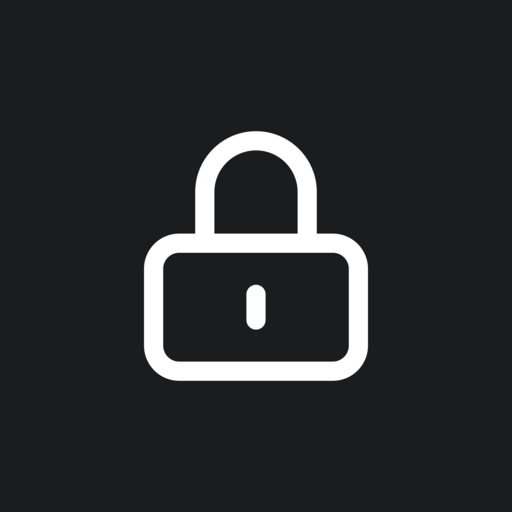
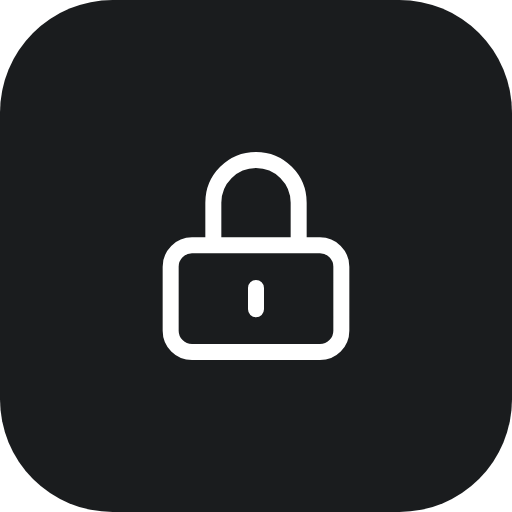
improve PWA support

diff --git a/scripts/generate-icons.ts b/scripts/generate-icons.ts
@@ -1,0 +1,86 @@
+/**
+ * Regenerates the favicon / PWA / Apple icons in public/ from one vector source.
+ *
+ * Run with: npx tsx scripts/generate-icons.ts
+ * Chromium comes from the Playwright install the e2e suite already needs (it rasterizes SVG far
+ * better than ImageMagick's built-in renderer); favicon.ico packing needs `magick` on PATH.
+ *
+ * The maskable variants are full-bleed on purpose: Android crops them to its own shape, so an
+ * icon carrying its own rounded corners ends up as a small square floating on a white plate.
+ */
+import { execFile } from 'node:child_process'
+import { mkdtemp, rm, writeFile } from 'node:fs/promises'
+import { tmpdir } from 'node:os'
+import { dirname, join } from 'node:path'
+import { promisify } from 'node:util'
+import { fileURLToPath } from 'node:url'
+import { chromium } from 'playwright'
+
+const run = promisify(execFile)
+const PUBLIC_DIR = join(dirname(fileURLToPath(import.meta.url)), '..', 'public')
+
+const BG = '#1a1c1e'
+const FG = '#ffffff'
+const LOCK =
+  'M12 15v2m-6 4h12a2 2 0 002-2v-6a2 2 0 00-2-2H6a2 2 0 00-2 2v6a2 2 0 002 2zm10-10V7a4 4 0 00-8 0v4h8z'
+
+/**
+ * @param radius corner radius in canvas units (0-50); 0 = full bleed
+ * @param glyph  lock width in canvas units, i.e. percent of the icon
+ */
+function page({ radius, glyph }: { radius: number; glyph: number }) {
+  const scale = glyph / 24
+  const offset = 50 - glyph / 2
+  return `<!doctype html>
+<style>html,body{margin:0;padding:0}svg{display:block;width:100vw;height:100vh}</style>
+<svg xmlns="http://www.w3.org/2000/svg" viewBox="0 0 100 100">
+  <rect x="0" y="0" width="100" height="100" rx="${radius}" fill="${BG}" />
+  <g transform="translate(${offset} ${offset}) scale(${scale})">
+    <path fill="none" stroke="${FG}" stroke-linecap="round" stroke-linejoin="round" stroke-width="1.5" d="${LOCK}" />
+  </g>
+</svg>`
+}
+
+// Rounded square where the icon is shown as-is (browser tabs, desktop installs); full bleed
+// wherever the platform applies its own mask (Android adaptive, iOS squircle).
+const ROUNDED = page({ radius: 22, glyph: 50 })
+const MASKABLE = page({ radius: 0, glyph: 44 })
+const APPLE = page({ radius: 0, glyph: 52 })
+
+const icons = [
+  { file: 'pwa-192x192.png', size: 192, html: ROUNDED },
+  { file: 'pwa-512x512.png', size: 512, html: ROUNDED },
+  { file: 'pwa-maskable-192x192.png', size: 192, html: MASKABLE },
+  { file: 'pwa-maskable-512x512.png', size: 512, html: MASKABLE },
+  { file: 'apple-touch-icon.png', size: 180, html: APPLE },
+]
+const FAVICON_SIZES = [16, 32, 48]
+
+const browser = await chromium.launch()
+const scratch = await mkdtemp(join(tmpdir(), 'librelock-icons-'))
+
+async function shot(html: string, size: number, out: string) {
+  const tab = await browser.newPage({ viewport: { width: size, height: size } })
+  await tab.setContent(html)
+  await tab.screenshot({ path: out, omitBackground: true })
+  await tab.close()
+}
+
+try {
+  for (const { file, size, html } of icons) {
+    await shot(html, size, join(PUBLIC_DIR, file))
+    console.log(`wrote public/${file} (${size}x${size})`)
+  }
+
+  const frames: string[] = []
+  for (const size of FAVICON_SIZES) {
+    const out = join(scratch, `favicon-${size}.png`)
+    await shot(ROUNDED, size, out)
+    frames.push(out)
+  }
+  await run('magick', [...frames, join(PUBLIC_DIR, 'favicon.ico')])
+  console.log(`wrote public/favicon.ico (${FAVICON_SIZES.join(', ')})`)
+} finally {
+  await browser.close()
+  await rm(scratch, { recursive: true, force: true })
+}

diff --git a/src/views/organization/OrgAccessCard.vue b/src/views/organization/OrgAccessCard.vue
@@ -79,9 +79,9 @@ async function toggleAutoGrant() {
             <p class="text-sm font-semibold text-gray-900 dark:text-gray-100">Public sign-up</p>
           </div>
           <p class="mt-1 text-xs text-gray-400">
-            Off means the instance is invite-only (recommended, default). New users will need a
-            single-use link generated in the Invites tab. When this setting is on, anyone who can
-            reach this instancecan create an account.
+            Off means the instance is invite-only (recommended, default).
+            New users will need a single-use link generated in the Invites tab.
+            When this setting is on, anyone who can reach this instance can create an account.
           </p>
         </div>
 
@@ -100,9 +100,8 @@ async function toggleAutoGrant() {
             Auto-grant shared vault
           </p>
           <p class="mt-1 text-xs text-gray-400">
-            New members receive shared-vault access automatically. Because the vault is end-to-end
-            encrypted, access is applied the next time an admin who holds the shared key opens the
-            Users tab, not instantly at sign-up.
+            New members receive shared-vault access automatically.
+            Because the vault is end-to-end encrypted, access is applied the next time an admin who holds the shared key opens the Users tab, not instantly at sign-up.
           </p>
         </div>
 
@@ -130,9 +129,8 @@ async function toggleAutoGrant() {
           </h3>
           <p class="mt-2 text-sm text-gray-600 dark:text-gray-300">
             Anyone who can reach this instance will be able to create an account without an invite.
-            On a publicly reachable server this can let strangers join your organization. Only
-            enable this if the instance is on a trusted, restricted network or you intend open
-            enrollment.
+            On a publicly reachable server this can let strangers join your organization.
+            Only enable this if the instance is on a trusted, restricted network or you intend open enrollment.
           </p>
           <p class="mt-2 text-sm text-gray-600 dark:text-gray-300">
             You can switch back to invite-only at any time.

diff --git a/src/composables/useAppViewport.ts b/src/composables/useAppViewport.ts
@@ -1,0 +1,42 @@
+import { onBeforeUnmount, onMounted } from 'vue'
+
+/**
+ * Keeps the app shell locked to the *visual* viewport.
+ *
+ * In an installed PWA the layout viewport (what `100dvh` measures) does not shrink when the
+ * on-screen keyboard opens, so a flex-column shell ends up with its bottom nav underneath the
+ * keyboard and — on iOS, which scrolls the layout viewport to reveal the focused input — its
+ * topbar pushed off screen. Mirroring `visualViewport.height`/`offsetTop` into CSS variables
+ * lets the shell resize and re-pin itself instead.
+ */
+export function useAppViewport() {
+  const vv = typeof window !== 'undefined' ? window.visualViewport : null
+
+  function sync() {
+    const root = document.documentElement
+    const height = vv?.height ?? window.innerHeight
+    // Rounded down: a fractional height leaves a hairline of page scrollable on some browsers
+    root.style.setProperty('--app-height', `${Math.floor(height)}px`)
+    root.style.setProperty('--app-offset-top', `${Math.round(vv?.offsetTop ?? 0)}px`)
+  }
+
+  onMounted(() => {
+    sync()
+    if (vv) {
+      vv.addEventListener('resize', sync)
+      // iOS pans the visual viewport while the keyboard is up; offsetTop only changes on scroll
+      vv.addEventListener('scroll', sync)
+    }
+    window.addEventListener('resize', sync)
+    window.addEventListener('orientationchange', sync)
+  })
+
+  onBeforeUnmount(() => {
+    if (vv) {
+      vv.removeEventListener('resize', sync)
+      vv.removeEventListener('scroll', sync)
+    }
+    window.removeEventListener('resize', sync)
+    window.removeEventListener('orientationchange', sync)
+  })
+}

diff --git a/src/layouts/AppLayout.vue b/src/layouts/AppLayout.vue
@@ -4,10 +4,12 @@ import { useRoute, useRouter } from 'vue-router'
 import AppBottomNav from '@/components/AppBottomNav.vue'
 import AppSidebar from '@/components/AppSidebar.vue'
 import AppTopbar from '@/components/AppTopbar.vue'
+import { useAppViewport } from '@/composables/useAppViewport'
 import { useThemeStore } from '@/stores/theme'
 import { useVaultStore } from '@/stores/vault'
 
 useThemeStore()
+useAppViewport()
 
 // Routes with their own searchable entry list (via VaultEntrySidebar) filter in place; entry forms are left alone so typing a search doesn't blow away an in-progress edit
 // Everywhere else (security, settings, organization, ...) has no results to show, so send the user to the vault view where they can actually see matches
@@ -41,7 +43,12 @@ watch(
 </script>
 
 <template>
-  <div class="flex h-dvh bg-gray-50 dark:bg-gray-950">
+  <!-- Pinned to the visual viewport (see useAppViewport) so the topbar and bottom nav stay put
+       in an installed PWA, keyboard open or not; h-dvh is the pre-hydration fallback -->
+  <div
+    class="fixed inset-x-0 flex h-dvh overflow-hidden bg-gray-50 dark:bg-gray-950 pl-[env(safe-area-inset-left)] pr-[env(safe-area-inset-right)]"
+    :style="{ top: 'var(--app-offset-top, 0px)', height: 'var(--app-height, 100dvh)' }"
+  >
     <AppSidebar />
     <div class="flex min-w-0 flex-1 flex-col">
       <AppTopbar />

diff --git a/vite.config.ts b/vite.config.ts
@@ -41,11 +41,18 @@ export default defineConfig({
         description: 'End-to-end encrypted password manager',
         start_url: '/',
         display: 'standalone',
-        background_color: '#ffffff',
-        theme_color: '#1a1c1e',
+        // Matches the dark shell theme-init.js defaults to, so the splash doesn't flash white
+        background_color: '#030712',
+        theme_color: '#030712',
         icons: [
-          { src: '/pwa-192x192.png', sizes: '192x192', type: 'image/png' },
-          { src: '/pwa-512x512.png', sizes: '512x512', type: 'image/png' },
+          { src: '/pwa-192x192.png', sizes: '192x192', type: 'image/png', purpose: 'any' },
+          { src: '/pwa-512x512.png', sizes: '512x512', type: 'image/png', purpose: 'any' },
+          {
+            src: '/pwa-maskable-192x192.png',
+            sizes: '192x192',
+            type: 'image/png',
+            purpose: 'maskable',
+          },
           {
             src: '/pwa-maskable-512x512.png',
             sizes: '512x512',

diff --git a/index.html b/index.html
@@ -4,7 +4,12 @@
     <meta charset="UTF-8" />
     <link rel="icon" href="/favicon.ico" />
     <link rel="apple-touch-icon" href="/apple-touch-icon.png" />
-    <meta name="viewport" content="width=device-width, initial-scale=1.0, viewport-fit=cover" />
+    <!-- interactive-widget: let the soft keyboard resize the layout viewport (Chrome/Android) so
+         the bottom nav rides above it instead of sitting under it -->
+    <meta
+      name="viewport"
+      content="width=device-width, initial-scale=1.0, viewport-fit=cover, interactive-widget=resizes-content"
+    />
     <meta name="theme-color" content="#030712" />
     <meta name="mobile-web-app-capable" content="yes" />
     <meta name="apple-mobile-web-app-status-bar-style" content="default" />

diff --git a/src/components/AppTopbar.vue b/src/components/AppTopbar.vue
@@ -44,7 +44,7 @@ onBeforeUnmount(() => window.removeEventListener('keydown', handleKeydown))
 
 <template>
   <header
-    class="flex h-14 shrink-0 items-center gap-3 border-b border-gray-200 dark:border-gray-700 bg-white dark:bg-gray-900 px-3 sm:gap-4 sm:px-4"
+    class="flex h-[calc(3.5rem+env(safe-area-inset-top))] shrink-0 items-center gap-3 border-b border-gray-200 dark:border-gray-700 bg-white dark:bg-gray-900 px-3 pt-[env(safe-area-inset-top)] sm:gap-4 sm:px-4"
   >
     <!-- The sidebar (and its logo) is hidden on mobile, so show the brand here -->
     <RouterLink to="/" class="shrink-0 md:hidden" aria-label="Home">

diff --git a/src/assets/main.css b/src/assets/main.css
@@ -1,6 +1,15 @@
 @import 'tailwindcss';
 
-@variant dark (&:where(.dark, .dark *));
+@custom-variant dark (&:where(.dark, .dark *));
+
+/* The app shell owns all scrolling (each view scrolls internally). Locking the document keeps the
+   installed PWA from scrolling its topbar/bottom nav out of view on input focus or overscroll. */
+html,
+body {
+  height: 100%;
+  overflow: hidden;
+  overscroll-behavior: none;
+}
 
 :root {
   --scrollbar-thumb: var(--color-gray-300);
